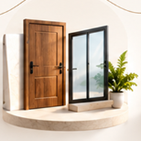
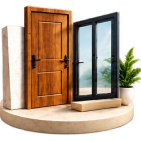
Add official transparent doors-windows image and bump cache buster

diff --git a/top-construction-company-bangalore.html b/top-construction-company-bangalore.html
@@ -56,7 +56,7 @@
     })(window, document, 'script', 'dataLayer', 'GTM-M68QWDNV');</script>
   <!-- End Google Tag Manager -->
   <link rel="stylesheet" href="css/swiper.css">
-  <link rel="stylesheet" href="css/style.css?v=whatyouget1" />
+  <link rel="stylesheet" href="css/style.css?v=whatyouget2" />
 </head>
 <style>
   .trustedSwiper .swiper-pagination-bullet {
@@ -677,7 +677,7 @@ height="0" width="0" style="display:none;visibility:hidden"></iframe></noscript>
             <div class="ad-wyg-card js-fade" data-delay="0.25">
               <div class="ad-wyg-media-wrap">
                 <div class="ad-wyg-pedestal-bg"></div>
-                <img class="ad-wyg-img" src="assets/services/doors-windows.png" alt="Doors & Windows" loading="lazy" onerror="this.style.display='none'; this.nextElementSibling.style.display='flex';" />
+                <img class="ad-wyg-img" src="assets/services/doors-windows.png?v=clean2" alt="Doors & Windows" loading="lazy" onerror="this.style.display='none'; this.nextElementSibling.style.display='flex';" />
                 <div class="ad-wyg-placeholder" style="display:none;">
                   <svg viewBox="0 0 24 24" fill="none" stroke="currentColor" stroke-width="2" stroke-linecap="round" stroke-linejoin="round"><path d="M3 21h18M4 21V5a2 2 0 0 1 2-2h12a2 2 0 0 1 2 2v16"></path><path d="M14 11v2"></path></svg>
                 </div>
